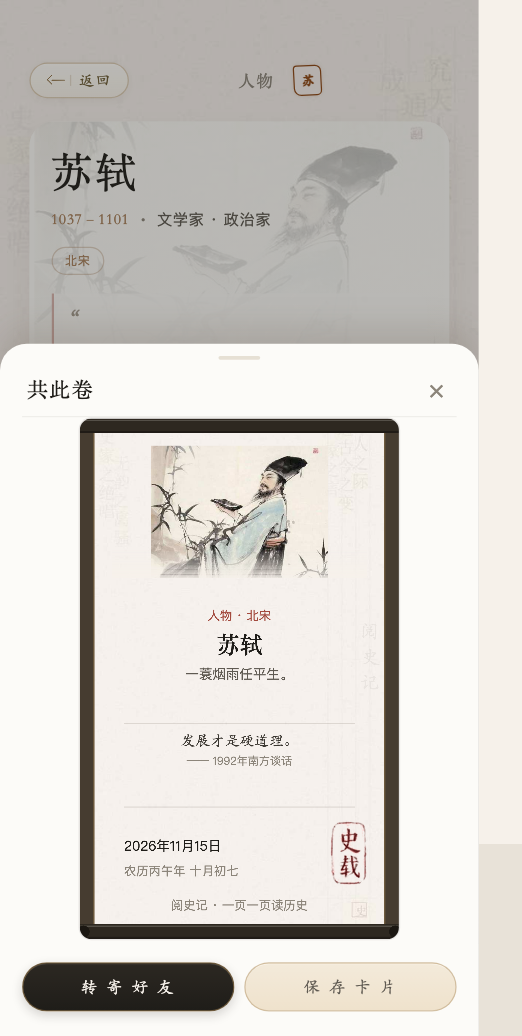
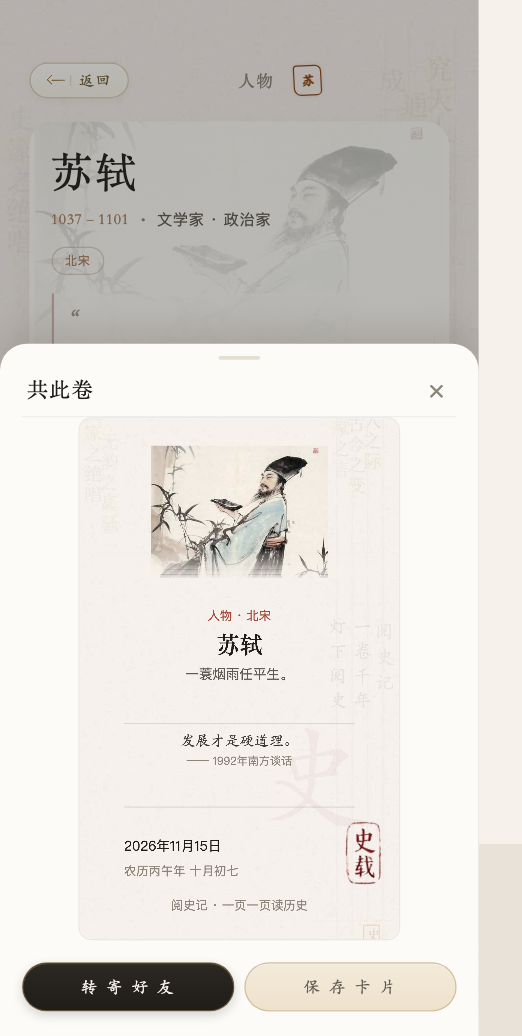
海报去边框定稿：整张宣纸纹理全幅铺底（与各页同源同铺法），新增古风文字背景——右缘竖排「阅史记/一卷千年/灯下阅史」三列淡墨 +「史」字淡朱砂大水印；题图/水印/印章坐标去 RIB 偏移；selftest 1932 过、截图核对通过、主包 2005KB

Changed region(s): [[0.1533, 0.4015, 0.7663, 0.9266]]

diff --git a/ui/preview/_bundle.js b/ui/preview/_bundle.js
@@ -5840,65 +5840,46 @@ function close(page) {
   page.setData({ 'share.open': false });
 }
 
-// 海报：宣纸卷轴风——宣纸纹理卷面 + 天地轴杆绫边 + 装裱题图 + 楷体名句 + 码/日期落款 + 「史载」朱砂印。
+// 海报：宣纸笺风（2026-11-15 去边框定稿）——整张宣纸纹理 + 古风文字背景（座右铭竖列 + 透背字）
+// + 装裱题图 + 楷体名句 + 日期落款 + 「史载」朱砂印，与各页宣纸背景同一视觉语言。
 // 纯绘制函数：图一律经 peekImg 读缓存（缺图由预取触发下一轮重绘补上），本函数不含任何异步。
 function paintPoster(ctx, share) {
-  // 立轴挂画形态：天杆 / 地杆（深木色横杆）+ 左右绫边（暗褐绢色 + 内金线）+ 宣纸卷面
-  const drawBar = (y, h) => {
-    ctx.fillStyle = '#2E2820';
-    ctx.fillRect(0, y, W, h);
-    ctx.fillStyle = 'rgba(246, 241, 234, 0.20)';
-    ctx.fillRect(0, y + 1, W, 1);
-    ctx.fillStyle = 'rgba(0, 0, 0, 0.30)';
-    ctx.fillRect(0, y + h - 2, W, 2);
-  };
-  drawBar(0, 12);
-  drawBar(H - 12, 12);
-  // 地杆两端轴头（立轴地杆出头）
-  ctx.fillStyle = '#1B1712';
-  ctx.beginPath();
-  ctx.arc(3, H - 6, 5, 0, Math.PI * 2);
-  ctx.fill();
-  ctx.beginPath();
-  ctx.arc(W - 3, H - 6, 5, 0, Math.PI * 2);
-  ctx.fill();
-
-  // 左右绫边 + 内金线
-  const RIB = 12;
-  ctx.fillStyle = '#463C30';
-  ctx.fillRect(0, 12, RIB, H - 24);
-  ctx.fillRect(W - RIB, 12, RIB, H - 24);
-  ctx.fillStyle = 'rgba(190, 150, 90, 0.35)';
-  ctx.fillRect(RIB - 1, 12, 1, H - 24);
-  ctx.fillRect(W - RIB, 12, 1, H - 24);
-
-  // 宣纸卷面：先铺底色，再 aspectFill 居中裁切绘入与全站同源的宣纸纹理（clip 防溢出）
-  const tw = W - RIB * 2;
-  const th = H - 24;
+  // 整张宣纸：先铺底色，再 aspectFill 居中裁切绘入与全站同源的宣纸纹理（clip 防溢出）
   ctx.fillStyle = PAPER;
-  ctx.fillRect(RIB, 12, tw, th);
+  ctx.fillRect(0, 0, W, H);
   const paper = peekImg(PAPER_BG);
   if (paper && paper.width && paper.height) {
-    const s = Math.max(tw / paper.width, th / paper.height);
+    const s = Math.max(W / paper.width, H / paper.height);
     const pw = paper.width * s;
     const ph = paper.height * s;
     ctx.save();
     ctx.beginPath();
-    ctx.rect(RIB, 12, tw, th);
+    ctx.rect(0, 0, W, H);
     ctx.clip();
-    ctx.drawImage(paper, RIB + (tw - pw) / 2, 12 + (th - ph) / 2, pw, ph);
+    ctx.drawImage(paper, (W - pw) / 2, (H - ph) / 2, pw, ph);
     ctx.restore();
   }
 
-  // 卷面右缘竖排「阅史记」淡墨透背字（宣纸透背书法质感）
+  // 古风文字背景一：右缘竖排「阅史记」淡墨透背字（宣纸透背书法质感）
   ctx.textAlign = 'center';
   ctx.fillStyle = 'rgba(31, 29, 25, 0.055)';
   ctx.font = '16px ' + KAI;
-  '阅史记'.split('').forEach((ch, i) => ctx.fillText(ch, W - RIB - 12, 178 + i * 21));
+  '阅史记'.split('').forEach((ch, i) => ctx.fillText(ch, W - 12, 178 + i * 21));
+
+  // 古风文字背景二：左缘竖排座右铭「一卷千年 · 灯下阅史」（古籍竖读右起两列，淡墨）
+  ctx.fillStyle = 'rgba(31, 29, 25, 0.075)';
+  ctx.font = '15px ' + KAI;
+  '一卷千年'.split('').forEach((ch, i) => ctx.fillText(ch, W - 30, 174 + i * 20));
+  '灯下阅史'.split('').forEach((ch, i) => ctx.fillText(ch, W - 50, 174 + i * 20));
+
+  // 古风文字背景三：题图下方朱砂小印意界格——「史」字淡朱砂大水印压名句区右侧
+  ctx.fillStyle = 'rgba(163, 74, 62, 0.05)';
+  ctx.font = '96px ' + KAI;
+  ctx.fillText('史', W - 74, 322);
 
   // 卷首画：当前页相关图**完整展示不裁切**（contain），底部虚化渐隐融入卷面
   // （远端图加载失败回退 share.imgFallback 本地朝代画，再失败画预置卷首兜底图）
-  const dx = RIB + 14, dy = 22, dw = W - RIB * 2 - 28, dh = 108;
+  const dx = 14, dy = 22, dw = W - 28, dh = 108;
   const cover = (share.imgLocal && peekImg(share.imgLocal)) || peekImg(FALLBACK_COVER);
   if (cover) {
     const iw = cover.width || 0;
@@ -5970,7 +5951,7 @@ function paintPoster(ctx, share) {
   if (seal) {
     const sealH = 52;
     const sealW = Math.round(sealH * 114 / 197);
-    ctx.drawImage(seal, W - RIB - 14 - sealW, cy - 2, sealW, sealH);
+    ctx.drawImage(seal, W - 14 - sealW, cy - 2, sealW, sealH);
   }
 
   // 品牌行

diff --git a/miniprogram/utils/qrshare.js b/miniprogram/utils/qrshare.js
@@ -240,65 +240,46 @@ function close(page) {
   page.setData({ 'share.open': false });
 }
 
-// 海报：宣纸卷轴风——宣纸纹理卷面 + 天地轴杆绫边 + 装裱题图 + 楷体名句 + 码/日期落款 + 「史载」朱砂印。
+// 海报：宣纸笺风（2026-11-15 去边框定稿）——整张宣纸纹理 + 古风文字背景（座右铭竖列 + 透背字）
+// + 装裱题图 + 楷体名句 + 日期落款 + 「史载」朱砂印，与各页宣纸背景同一视觉语言。
 // 纯绘制函数：图一律经 peekImg 读缓存（缺图由预取触发下一轮重绘补上），本函数不含任何异步。
 function paintPoster(ctx, share) {
-  // 立轴挂画形态：天杆 / 地杆（深木色横杆）+ 左右绫边（暗褐绢色 + 内金线）+ 宣纸卷面
-  const drawBar = (y, h) => {
-    ctx.fillStyle = '#2E2820';
-    ctx.fillRect(0, y, W, h);
-    ctx.fillStyle = 'rgba(246, 241, 234, 0.20)';
-    ctx.fillRect(0, y + 1, W, 1);
-    ctx.fillStyle = 'rgba(0, 0, 0, 0.30)';
-    ctx.fillRect(0, y + h - 2, W, 2);
-  };
-  drawBar(0, 12);
-  drawBar(H - 12, 12);
-  // 地杆两端轴头（立轴地杆出头）
-  ctx.fillStyle = '#1B1712';
-  ctx.beginPath();
-  ctx.arc(3, H - 6, 5, 0, Math.PI * 2);
-  ctx.fill();
-  ctx.beginPath();
-  ctx.arc(W - 3, H - 6, 5, 0, Math.PI * 2);
-  ctx.fill();
-
-  // 左右绫边 + 内金线
-  const RIB = 12;
-  ctx.fillStyle = '#463C30';
-  ctx.fillRect(0, 12, RIB, H - 24);
-  ctx.fillRect(W - RIB, 12, RIB, H - 24);
-  ctx.fillStyle = 'rgba(190, 150, 90, 0.35)';
-  ctx.fillRect(RIB - 1, 12, 1, H - 24);
-  ctx.fillRect(W - RIB, 12, 1, H - 24);
-
-  // 宣纸卷面：先铺底色，再 aspectFill 居中裁切绘入与全站同源的宣纸纹理（clip 防溢出）
-  const tw = W - RIB * 2;
-  const th = H - 24;
+  // 整张宣纸：先铺底色，再 aspectFill 居中裁切绘入与全站同源的宣纸纹理（clip 防溢出）
   ctx.fillStyle = PAPER;
-  ctx.fillRect(RIB, 12, tw, th);
+  ctx.fillRect(0, 0, W, H);
   const paper = peekImg(PAPER_BG);
   if (paper && paper.width && paper.height) {
-    const s = Math.max(tw / paper.width, th / paper.height);
+    const s = Math.max(W / paper.width, H / paper.height);
     const pw = paper.width * s;
     const ph = paper.height * s;
     ctx.save();
     ctx.beginPath();
-    ctx.rect(RIB, 12, tw, th);
+    ctx.rect(0, 0, W, H);
     ctx.clip();
-    ctx.drawImage(paper, RIB + (tw - pw) / 2, 12 + (th - ph) / 2, pw, ph);
+    ctx.drawImage(paper, (W - pw) / 2, (H - ph) / 2, pw, ph);
     ctx.restore();
   }
 
-  // 卷面右缘竖排「阅史记」淡墨透背字（宣纸透背书法质感）
+  // 古风文字背景一：右缘竖排「阅史记」淡墨透背字（宣纸透背书法质感）
   ctx.textAlign = 'center';
   ctx.fillStyle = 'rgba(31, 29, 25, 0.055)';
   ctx.font = '16px ' + KAI;
-  '阅史记'.split('').forEach((ch, i) => ctx.fillText(ch, W - RIB - 12, 178 + i * 21));
+  '阅史记'.split('').forEach((ch, i) => ctx.fillText(ch, W - 12, 178 + i * 21));
+
+  // 古风文字背景二：左缘竖排座右铭「一卷千年 · 灯下阅史」（古籍竖读右起两列，淡墨）
+  ctx.fillStyle = 'rgba(31, 29, 25, 0.075)';
+  ctx.font = '15px ' + KAI;
+  '一卷千年'.split('').forEach((ch, i) => ctx.fillText(ch, W - 30, 174 + i * 20));
+  '灯下阅史'.split('').forEach((ch, i) => ctx.fillText(ch, W - 50, 174 + i * 20));
+
+  // 古风文字背景三：题图下方朱砂小印意界格——「史」字淡朱砂大水印压名句区右侧
+  ctx.fillStyle = 'rgba(163, 74, 62, 0.05)';
+  ctx.font = '96px ' + KAI;
+  ctx.fillText('史', W - 74, 322);
 
   // 卷首画：当前页相关图**完整展示不裁切**（contain），底部虚化渐隐融入卷面
   // （远端图加载失败回退 share.imgFallback 本地朝代画，再失败画预置卷首兜底图）
-  const dx = RIB + 14, dy = 22, dw = W - RIB * 2 - 28, dh = 108;
+  const dx = 14, dy = 22, dw = W - 28, dh = 108;
   const cover = (share.imgLocal && peekImg(share.imgLocal)) || peekImg(FALLBACK_COVER);
   if (cover) {
     const iw = cover.width || 0;
@@ -370,7 +351,7 @@ function paintPoster(ctx, share) {
   if (seal) {
     const sealH = 52;
     const sealW = Math.round(sealH * 114 / 197);
-    ctx.drawImage(seal, W - RIB - 14 - sealW, cy - 2, sealW, sealH);
+    ctx.drawImage(seal, W - 14 - sealW, cy - 2, sealW, sealH);
   }
 
   // 品牌行

diff --git a/tools/selftest.js b/tools/selftest.js
@@ -289,7 +289,7 @@ function assertSharePanel(page, cfg, tag) {
   ok(page.data.share.dateText.indexOf('年') > 0, `${tag}海报含公历日期`);
   qrshare.drawPoster(page);
   ok(mockPoster.texts >= 8, `${tag}海报含 kicker/标题/摘要/名句/出处/日期/品牌文字层`);
-  ok(mockPoster.fills > 30, `${tag}海报有基础绘制层（轴杆/绫边/纸底/渐隐/细线）`);
+  ok(mockPoster.fills > 20, `${tag}海报有基础绘制层（纸底/渐隐/细线）`);
   ok(mockPoster.images >= 2, `${tag}海报含题图与「史载」印`);
   const msg = page.onShareAppMessage();
   ok(msg.path === page.sharePayload().path, `${tag}转发 path 与 sharePayload 同源`);

diff --git a/AGENTS.md b/AGENTS.md
@@ -14,7 +14,7 @@
 - 原生小程序（13 页全部落地）：首页 / 时间轴 / 发现 / 我的 + 人物、事件、**朝代**详情页 + 搜索页 + 收藏、足迹独立页 + **资料库首页/列表/详情**；数据=本地真实历史种子 `miniprogram/data/history.js`（100 史事 / 89 人物 / 24 朝代 / 2 专题 + 今日史事日期库 16 组），并叠加 **jsDelivr 远端热更**：`utils/historyData.js` 数据中枢统一供数，远端 JSON（`data/history.json`，由 `tools/build_data_json.js` 生成——**改数据后必须重建并提交**）；「我的」页「检查内容更新」可 purge jsDelivr 缓存即时生效（`purge.jsdelivr.net` 需白名单）；热更数据在 `utils/remote.js` 内存缓存（首读 storage，稳态切页零 IO 零 stringify，「清除缓存」会 resetMemory）。首页「历史上的今天」板块走 **60s API**（`utils/api.js`，天级缓存 6h，失败自动隐藏板块）。**首页两条「今日」内容均为每日随机（2026-10-25）**：`api.pickDaily` 以公历月日为种子做确定性抽取——同一天所有用户看到同一条、隔天自动换，不是每次点击重随机。「今日史事」hero 卡在日期库 16 组匹配日按库显示（真实历史今天），其余日子从全部 100 史事里每日随机抽一条（不再固定回退 dailyFallback，抽取异常才兜底）；60s 板块精选也从「固定取第一条有描述的」改为每日随机。在线域名白名单：`cdn.jsdelivr.net`、`purge.jsdelivr.net`、`60s.viki.moe`。
 - 「史页资料库」：APK 数据 39,067 条（辞条 13,287 / 人物 4,869 / 事件 705 / 帝王 373 / 战争 466 / 三国纪事 29 / 名句 677 / 文言辞条 3,889 / 诗文名句 3,955 / 诗文全文 10,817），入口在发现页；数据放 `miniprogram/data/apk/`，由 `project.config.json` 的 `packOptions.ignore` 排除出主包，`utils/apkData.js` 通过 jsDelivr 按需加载（内存 + 7 天本地缓存；单文件 ≤1.5MB，资料库总预算 5MB，超预算先淘汰旧分卷）。**首屏提速（2026-10-24）**：每个栏目索引拆成 `head.json`（`{total, step:200, parts, items}`，前 200 条，~15–30KB，列表页首屏只拉这一份）+ `part-N.json`（剩余条目每 200 条一块，首屏渲染后后台 **4 并发限流**补齐；请求失败/403 自动重试一次——jsDelivr 对突发请求会 403 限流）；`index.json` 保留作拆分输入与旧版回退。**不断层交付（2026-10-31）**：分块合并只取「head + 连续成功前缀」，个别分块失败绝不让后面的分块顶上来开中段空洞；失败分块按 1.5s/4s 退避自动重试两轮，每接上一块就再回调一次（`info.loaded`=已载入条数），列表平滑生长；**残缺索引绝不写缓存**（全部到齐才写，否则断层随 7 天缓存长期存在）；补齐受阻时列表页显示「分块补齐受阻 · 点按重试」。本地缓存 key 为 `shige_apk_v3_*`（分块布局变更时须升版本号整体失效）。全部栏目统一为「列表索引 + 详情分卷」：索引固定列 `[id,title,meta,summary,shard]`（摘要 44 字），`00.json`… 为详情分卷（非诗文 ≤180 条 / ≤320KB，诗文 ≤120 条 / ≤320KB）；列表只加载索引，详情按 `shard` 只加载一册。拆分工具 `tools/split_apk_index.js`（幂等，改索引数据后重跑）。原始 APK/DB 在 `import/`，不提交。
 - 收藏 / 浏览足迹已落地（本地存储，utils/store.js，收藏行支持长按移出）；「我的」页各只展示前 3 条，>3 条时「查看全部」进独立分类页，独立页支持清空；分享已接入各页。**资料库条目已接入（2026-10-25）**：资料详情页有「收藏此资料」按钮、浏览即留足迹；资料条目在存储里带 `info` 展示快照（kind/aType/shard/rawId/cat/meta/title，唯一键 `kind|type|rawId`），收藏/足迹页据此渲染并跳详情，不回查远端数据；收藏/足迹/我的页跳转统一走 `entries.resolveEntry` 给出的 `nav` 链接；收藏页新增「资料」分组（人物/史事/资料）。
-- **「共此卷」分享卡片（2026-11-14；11-15 canvas 2d 高清化 + 定稿「无码纯卡片」）**：四详情页（person/event/period/archive-detail）底部按钮进半屏面板（`app.wxss` 全局 `.ss-*` 样式 + `utils/qrshare.js`），canvas 绘制海报（宣纸纹理卷面 + 立轴题图 + kicker+标题+摘要+名句+日期落款+史载印+品牌行，**不带任何二维码/小程序码**）可保存相册，「转寄好友」button open-type=share 走各页 onShareAppMessage。**海报渲染为 canvas 2d API（`type="2d"`）**：固定 4.5 倍缓冲 1170×1908（与设备 dpr 无关，坐标按 260×424 逻辑书写 + scale(4.5)），导出按缓冲原生分辨率；卷面 aspectFill 绘入与全站同源的 `assets/paper-bg.jpg` 宣纸纹理；图像走 `canvas.createImage()` + 模块级缓存（`peekImg` 只读 / `preloadPosterImgs` 预取 / `resetImgs` 测试重置）；**每次绘制重新查询节点整幅重画**（真机节点持久开销可忽略；harness setData 整页重建 DOM，缓存节点会画到分离元素上）。四页 wxml 用 `<canvas type="2d" id="ssQrCanvas">`。**太阳码生成链路已停用触发（2026-11-15 定稿「无码纯卡片」后无 UI 消费方）**：`tools/gen_wxacode.js` 脚本与 workflow 文件原样保留，`.github/workflows/wxacode.yml` 的 `on:` 触发块已整段注释（不再自动/手动跑）；重新启用 = 取消注释并 push。生成需 secret=`WX_APPSECRET`，遇 89503 需管理员确认（见 DEVELOPMENT_LOG 2026-11-14/15 条目）。scene/URL/文件名规则单源在 `utils/wxacode.js`（生成端 require 同一模块）。scene 规范：`p/e/d=<id>`（三主库页）、`g=<栏目短码>&i=<id>`（archive，cards 带 `&t=`；短码 f/m/v/w/y/q/n/p/c + poems 五体裁 ps/pc/pw/pq/pf），figures/emperors 超限 id（2,367 条）走 `h=<sha1 前 12 位 base36>` + `idx/<栏目>.json` 清单还原（hash 对不变 id 恒定，增量生成恒安全）。四页 onLoad 首行 `mergeScene(options)` 支持扫码直达（archive 超限条目先 `resolveIndex` 还原 id）。生成端错误阶梯含 89503 管理员确认轮询（Actions 动态 IP 无法加白名单的固有流程，见 DEVELOPMENT_LOG 2026-11-14/15 条目）。各页提供 `sharePayload()`（kicker/title/desc/img/path）。harness 的 setData 已支持点路径、downloadFile 远端图映射本地仓库文件、canvas 2d mock（SelectorQuery + mock 节点 + createImage，`mockQr.codeFail`/`netFail` 控制码图与远端图失败）。
+- **「共此卷」分享卡片（2026-11-14；11-15 canvas 2d 高清化 + 定稿「无码纯卡片」）**：四详情页（person/event/period/archive-detail）底部按钮进半屏面板（`app.wxss` 全局 `.ss-*` 样式 + `utils/qrshare.js`），canvas 绘制海报（**无边框整张宣纸纹理** + 古风文字背景【右缘竖排 阅史记/一卷千年/灯下阅史 三列淡墨 + 「史」字淡朱砂水印】+ 题图 + kicker+标题+摘要+名句+日期落款+史载印+品牌行，**不带任何二维码/小程序码**）可保存相册，「转寄好友」button open-type=share 走各页 onShareAppMessage。**海报渲染为 canvas 2d API（`type="2d"`）**：固定 4.5 倍缓冲 1170×1908（与设备 dpr 无关，坐标按 260×424 逻辑书写 + scale(4.5)），导出按缓冲原生分辨率；卷面 aspectFill 绘入与全站同源的 `assets/paper-bg.jpg` 宣纸纹理；图像走 `canvas.createImage()` + 模块级缓存（`peekImg` 只读 / `preloadPosterImgs` 预取 / `resetImgs` 测试重置）；**每次绘制重新查询节点整幅重画**（真机节点持久开销可忽略；harness setData 整页重建 DOM，缓存节点会画到分离元素上）。四页 wxml 用 `<canvas type="2d" id="ssQrCanvas">`。**太阳码生成链路已停用触发（2026-11-15 定稿「无码纯卡片」后无 UI 消费方）**：`tools/gen_wxacode.js` 脚本与 workflow 文件原样保留，`.github/workflows/wxacode.yml` 的 `on:` 触发块已整段注释（不再自动/手动跑）；重新启用 = 取消注释并 push。生成需 secret=`WX_APPSECRET`，遇 89503 需管理员确认（见 DEVELOPMENT_LOG 2026-11-14/15 条目）。scene/URL/文件名规则单源在 `utils/wxacode.js`（生成端 require 同一模块）。scene 规范：`p/e/d=<id>`（三主库页）、`g=<栏目短码>&i=<id>`（archive，cards 带 `&t=`；短码 f/m/v/w/y/q/n/p/c + poems 五体裁 ps/pc/pw/pq/pf），figures/emperors 超限 id（2,367 条）走 `h=<sha1 前 12 位 base36>` + `idx/<栏目>.json` 清单还原（hash 对不变 id 恒定，增量生成恒安全）。四页 onLoad 首行 `mergeScene(options)` 支持扫码直达（archive 超限条目先 `resolveIndex` 还原 id）。生成端错误阶梯含 89503 管理员确认轮询（Actions 动态 IP 无法加白名单的固有流程，见 DEVELOPMENT_LOG 2026-11-14/15 条目）。各页提供 `sharePayload()`（kicker/title/desc/img/path）。harness 的 setData 已支持点路径、downloadFile 远端图映射本地仓库文件、canvas 2d mock（SelectorQuery + mock 节点 + createImage，`mockQr.codeFail`/`netFail` 控制码图与远端图失败）。
 - 质量链路：`node tools/selftest.js`（约 1800 断言交互自测）+ `ui/preview/` 浏览器渲染 harness（28 张标准截图核对，`preview_shots.js` 起跑前自检预览服务在线、要求截图文件 mtime 前进，防旧图假 OK）+ `python tools/validate_miniprogram.py` 静态校验。
 - 尚无后端（太阳码生成走 GitHub Actions 预生成 + jsDelivr 分发，运行时仍零后端零依赖；secret=`WX_APPSECRET` 只存 GitHub Secrets，见 `tools/gen_wxacode.js`）。
 

diff --git a/docs/DEVELOPMENT_LOG.md b/docs/DEVELOPMENT_LOG.md
@@ -2134,3 +2134,12 @@ miniprogram/data/history.js
 - 需求：海报定稿无码后，用户在「保持现状/删除链路/停用触发」三选一里选**停用触发**。
 - `.github/workflows/wxacode.yml` 的 `on:` 触发块（push paths + workflow_dispatch）整段注释，workflow 不再自动/手动运行；`tools/gen_wxacode.js` 与 `utils/wxacode.js` 原样保留。重新启用：取消注释并 push（secret `WX_APPSECRET` 与 89503 管理员确认流程照旧）。
 - AGENTS.md 太阳码条目同步更新。无需跑 selftest（无小程序代码改动）。
+
+## 2026-11-15 · 海报去边框定稿：整张宣纸 + 古风文字背景
+
+- 需求：用户要求「海报边框取消，跟当前程序一样使用宣纸背景，增加一些文字背景进去看着有古风特色」。
+- **去边框（paintPoster 重排）**：删除立轴形态的天/地木杆、地杆轴头、左右绫边与内金线；宣纸改为**整张全幅**（底色 + `assets/paper-bg.jpg` aspectFill 全画布，与各页背景同一张图同一铺法）；题图/水印/印章坐标同步去 RIB 偏移（题图 x=14 宽 232，右缘水印 x=W-12，印章 x=W-14-w）。
+- **古风文字背景三组（2026-11-15 定稿新增）**：①右缘竖排「阅史记」淡墨透背字（原有，去框后 x 调整）；②右缘增两列竖排座右铭「一卷千年」「灯下阅史」（Kaiti 15px，alpha 0.075，古籍竖读右起与「阅史记」连成一组）；③「史」字 96px 淡朱砂大水印（alpha 0.05）压名句区右侧。
+- selftest：fills 阈值随去框调整（>30→>20，纸底/渐隐/细线共 27 次）。
+- 验证：`node tools/selftest.js` PASS 1932 / FAIL 0；`python tools/validate_miniprogram.py` 通过；`node tools/build_preview.js` 重打包；preview_shots 35 张全过；浏览器实测——无边框宣纸、三列古风竖字、「史」水印、日期落款、史载印全部正确；主包 2005KB 不变。
+- 遗留：①兜底静态卡（share-fallback.jpg）仍带旧卷轴杆视觉，仅在 canvas 异常降级时出现；本机无 KaiTi 字体（改用 Songti 会变定稿视觉）+ 主包余量 43KB，重新生成需权衡；②真机核对文字背景在 4.5 倍缓冲下的淡墨层次。
